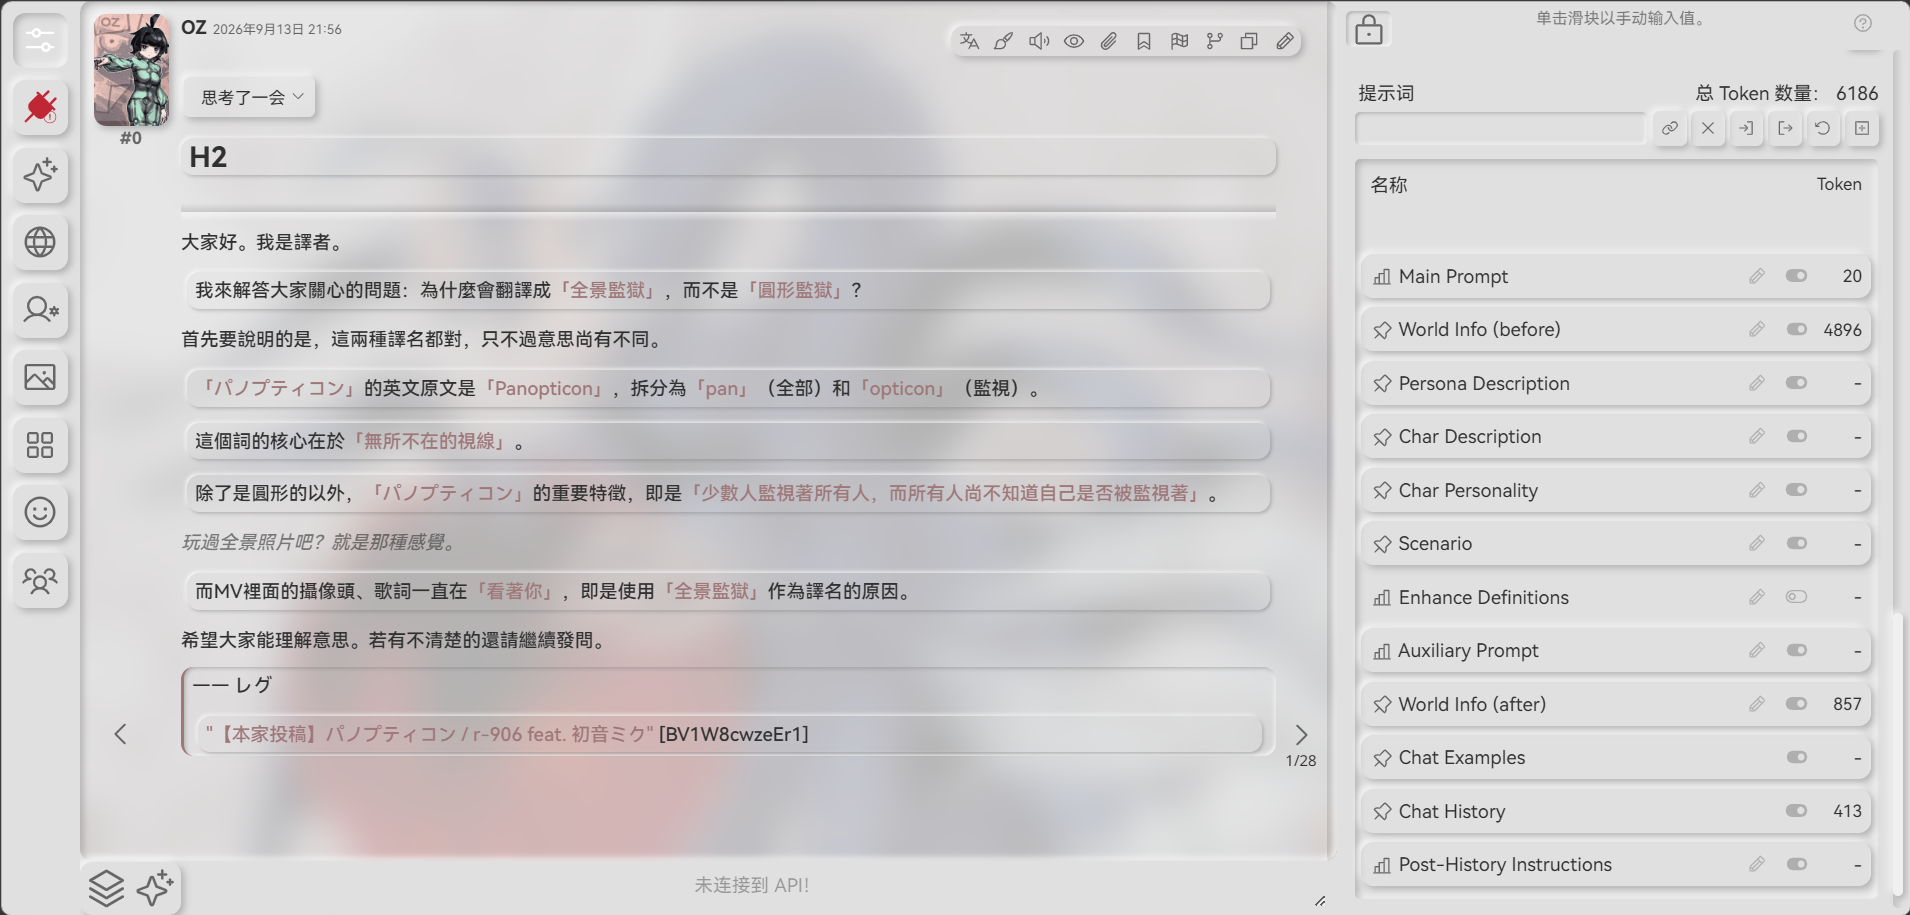
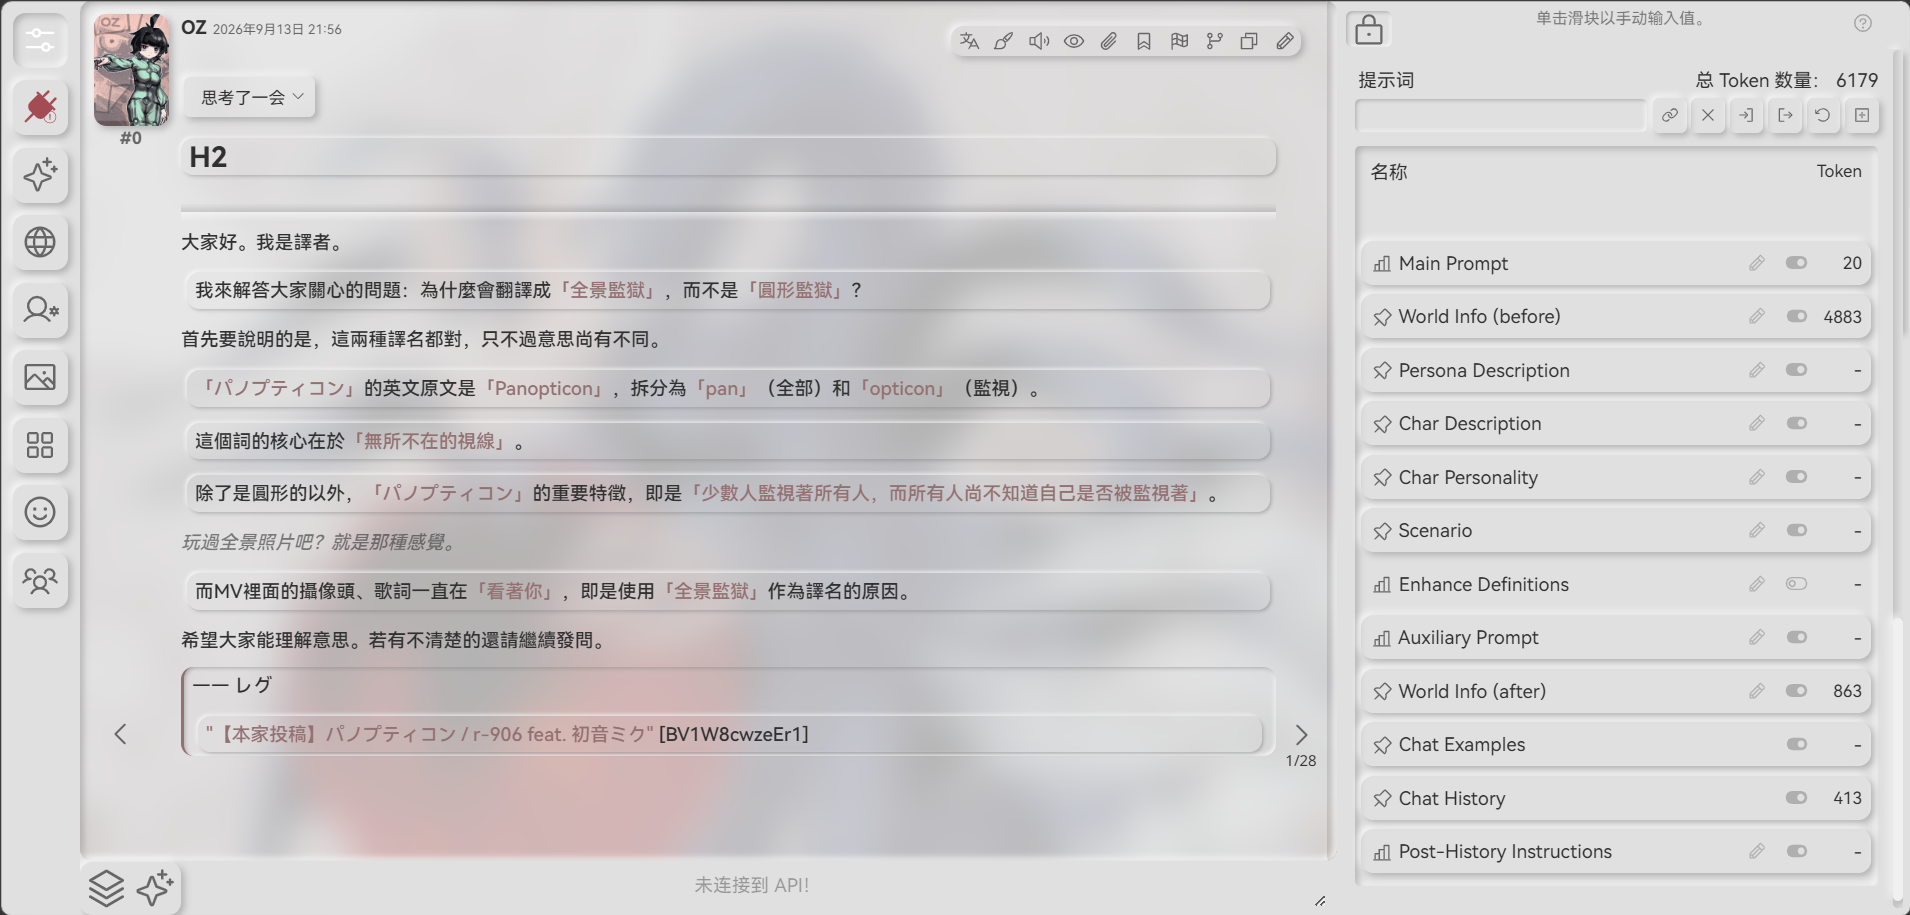
准备发正式版

Changed region(s): [[0.7105, 0.0612, 1.0, 0.9792], [0.7105, 0.0612, 0.7414, 0.1224], [0.0, 0.0918, 0.0309, 0.1224]]

diff --git a/themes/Panopticon-Psi/src/theme.scss b/themes/Panopticon-Psi/src/theme.scss
@@ -19,7 +19,8 @@ $icon-offline: "%23bf2734" !default;
 $bg-color: "transparent" !default;
 
 @use "icons-fa.scss" with (
-  $icon-color: $icon-color
+  $icon-color: $icon-color,
+  $icon-offline: $icon-offline
 );
 
 $highlight-color: color(
@@ -36,6 +37,11 @@ $highlight-color: color(
   --font-mono:
     "JetBrains Mono", "Cascadia Code", ui-monospace, Menlo, Consolas,
     "Source Han Sans SC VF", monospace;
+
+  --golden: var(--SmartThemeQuoteColor);
+  --warning: var(--SmartThemeQuoteColor);
+  --active: var(--SmartThemeQuoteColor);
+  --preferred: var(--SmartThemeQuoteColor);
 }
 
 body {
@@ -339,6 +345,40 @@ textarea,
   @extend %bg-none-important;
 }
 
+%gallery-text-overlay {
+  font-weight: 500;
+  background: linear-gradient(transparent, $bg-color 80%);
+}
+.bg_folder_tile {
+  @extend %bg-none;
+  @extend %newmorph-outset-md;
+  outline: none;
+  border: none;
+  .bg_folder_tile_overlay {
+    @extend %gallery-text-overlay;
+  }
+  .bg_folder_tile_menu {
+    @extend %bg-none;
+  }
+}
+
+.bg_example .BGSampleTitle {
+  @extend %gallery-text-overlay;
+}
+.jg-menu,
+.bg_example .jg-menu,
+.bg_folder_tile .jg-menu {
+  background-color: $bg-color;
+  @extend %newmorph-dialog-md;
+  .jg-button:hover {
+    @extend %bg-none;
+    @extend %newmorph-inset-md;
+  }
+}
+.locked-background .jg-unlock {
+  @extend %menu-button-lit;
+}
+
 .reasoning_edit_textarea,
 .edit_textarea {
   @extend %bg-none;
@@ -466,25 +506,42 @@ body.big-avatars .avatar img {
   color: var(--SmartThemeBodyColor);
 }
 
-div .expression-holder,
-.zoomed_avatar {
-  .dragClose {
-    @extend %filter-none;
-    height: unset;
-    background-color: $bg-color;
-    @extend %newmorph-outset-sm;
-    @extend %rounded-md;
-    @extend %opacity-1;
-    &:hover {
-      background: linear-gradient(
-        145deg,
-        color-mix(in srgb, $shadow-color, $bg-color 79%),
-        color-mix(in srgb, $glow-color, $bg-color)
-      );
-    }
+%img-control {
+  @extend %filter-none;
+
+  background-color: $bg-color;
+  @extend %newmorph-dialog-md;
+  @extend %rounded-sm;
+  @extend %opacity-1;
+  &:hover {
+    background: linear-gradient(
+      145deg,
+      color-mix(in srgb, $shadow-color, $bg-color 79%),
+      color-mix(in srgb, $glow-color, $bg-color)
+    );
   }
 }
 
+div .expression-holder,
+.zoomed_avatar {
+  .dragClose {
+    height: unset;
+    @extend %img-control;
+  }
+}
+.dragClose {
+  @extend %filter-none;
+  @extend %opacity-1;
+  @extend %rounded-sm;
+  &:hover {
+    @extend %newmorph-inset-md;
+  }
+}
+
+.draggable {
+  @extend %filter-none;
+  @extend %newmorph-dialog-md;
+}
 .file_attached {
   display: flex;
   @extend %bg-none;
@@ -849,6 +906,18 @@ input[type="range"] {
   }
 }
 
+%menu-button-lit {
+  @extend %newmorph-inset-md;
+  &::before {
+    filter: brightness(50);
+  }
+
+  &:hover {
+    @extend %newmorph-outset-md;
+    @extend %newmorph-inset-bg-md;
+  }
+}
+
 .menu_button:not(.disabled):not([disabled]) {
   @extend %newmorph-outset-md;
   &:hover,
@@ -868,18 +937,17 @@ input[type="range"] {
 
   &.world_set,
   &.fav_on {
-    @extend %newmorph-inset-md;
-    &::before {
-      filter: brightness(50);
-    }
-
-    &:hover {
-      @extend %newmorph-outset-md;
-      @extend %newmorph-inset-bg-md;
-    }
+    @extend %menu-button-lit;
   }
 }
+body.charListGrid #charListGridToggle,
+#bulkEditButton.bulk_edit_overlay_active {
+  @extend %menu-button-lit;
+}
 
+#PersonaManagement:has(#user_avatar_block.gridView) #persona_grid_toggle {
+  @extend %menu-button-lit;
+}
 // #world_button.world_set,
 // #persona_lore_button.world_set,
 // #favorite_button.fav_on,
@@ -1017,10 +1085,22 @@ input[type="range"] {
 #delete_button,
 #dialogue_del_mes_ok,
 #dialogue_popup_ok,
+.menu_button.popup-button-ok,
 .redWarningBG,
 .red_button,
 .mes_edit_cancel.menu_button {
-  background-color: $danger-color !important;
+  border-color: $danger-color;
+  background-color: $danger-color;
+  background: linear-gradient(
+    145deg,
+    color-mix(
+      in srgb,
+      $danger-color,
+      color(from #{$glow-color} srgb r g b / 1) 40%
+    ),
+    $danger-color,
+    color-mix(in srgb, $danger-color, $shadow-color 40%)
+  ) !important;
   stroke: #fff !important;
   color: $bg-color !important;
 
@@ -1081,6 +1161,33 @@ input[type="range"] {
 .popup .popper-modal {
   &:not(:has(#loader)) {
     @extend %newmorph-dialog-md;
+  }
+}
+
+#character_context_menu {
+  border: none;
+  outline: none;
+  @extend %newmorph-dialog-md;
+  background-color: $bg-color;
+  @extend %rounded-sm;
+  ul li button {
+    @extend %rounded-sm;
+    color: var(--SmartThemeBodyColor);
+    &:hover {
+      @extend %bg-none;
+      color: var(--SmartThemeQuoteColor);
+      @extend %newmorph-inset-md;
+    }
+    font-weight: normal;
+    border: none;
+  }
+
+  ul li #character_context_menu_delete {
+    color: $danger-color;
+  }
+
+  .character_context_menu_separator {
+    display: none;
   }
 }
 
@@ -1247,9 +1354,55 @@ a:hover {
     }
   }
 }
+.optional {
+  color: var(--SmartThemeEmColor);
+}
 
 .popup[open]::backdrop {
   background-color: color(from $bg-color srgb r g b / 0.6);
   backdrop-filter: blur(var(--SmartThemeBlurStrength));
   -webkit-backdrop-filter: blur(var(--SmartThemeBlurStrength));
+}
+
+#BogusFolderBack {
+  margin: 5px;
+  max-width: calc(100% - 10px);
+  @extend %newmorph-outset-md;
+  align-items: baseline !important;
+  .ch_name {
+    font-weight: normal;
+  }
+
+  &:hover {
+    @extend %newmorph-outset-md;
+    @extend %newmorph-inset-bg-fixed;
+  }
+}
+
+.mes_media_container {
+  @extend %bg-none;
+  @extend %newmorph-outset-md;
+
+  .audio-player-progress {
+    @extend %newmorph-inset-sm;
+  }
+
+  .mes_img_controls,
+  .mes_video_controls {
+    @extend %bg-none;
+    .interactable {
+      @extend %img-control;
+      &::before {
+        top: 0 !important;
+      }
+    }
+  }
+}
+.right_menu_button {
+  @extend %opacity-1;
+  @extend %filter-none;
+  &:hover {
+    @extend %filter-none;
+    @extend %newmorph-inset-md;
+  }
 }

diff --git a/themes/Panopticon-Psi/src/dark/theme.scss b/themes/Panopticon-Psi/src/dark/theme.scss
@@ -2,8 +2,8 @@
   //#e0e0e0
   $shadow-color-75: #000000,
   $glow-color: #ffffff28,
-  $danger-color: #851b24,
+  $danger-color: #822830,
   $icon-color: "%23aaaaaa",
-  $icon-offline: "%23851b24"
+  $icon-offline: "%23822830"
 );
 @use "../layout.scss";

diff --git a/themes/Panopticon-Psi/src/light/theme.scss b/themes/Panopticon-Psi/src/light/theme.scss
@@ -1,4 +1,6 @@
 @use "../theme.scss" with (
-  $icon-color: "%23666666"
+  $icon-color: "%23666666",
+  $danger-color: #a34c53,
+  $icon-offline: "%23a34c53"
 );
 @use "../layout.scss";

diff --git a/themes/Panopticon-Psi/README.md b/themes/Panopticon-Psi/README.md
@@ -8,3 +8,5 @@
 
 ![](preview1.png)
 ![](preview2.png)
+![](preview3.png)
+![](preview4.png)
